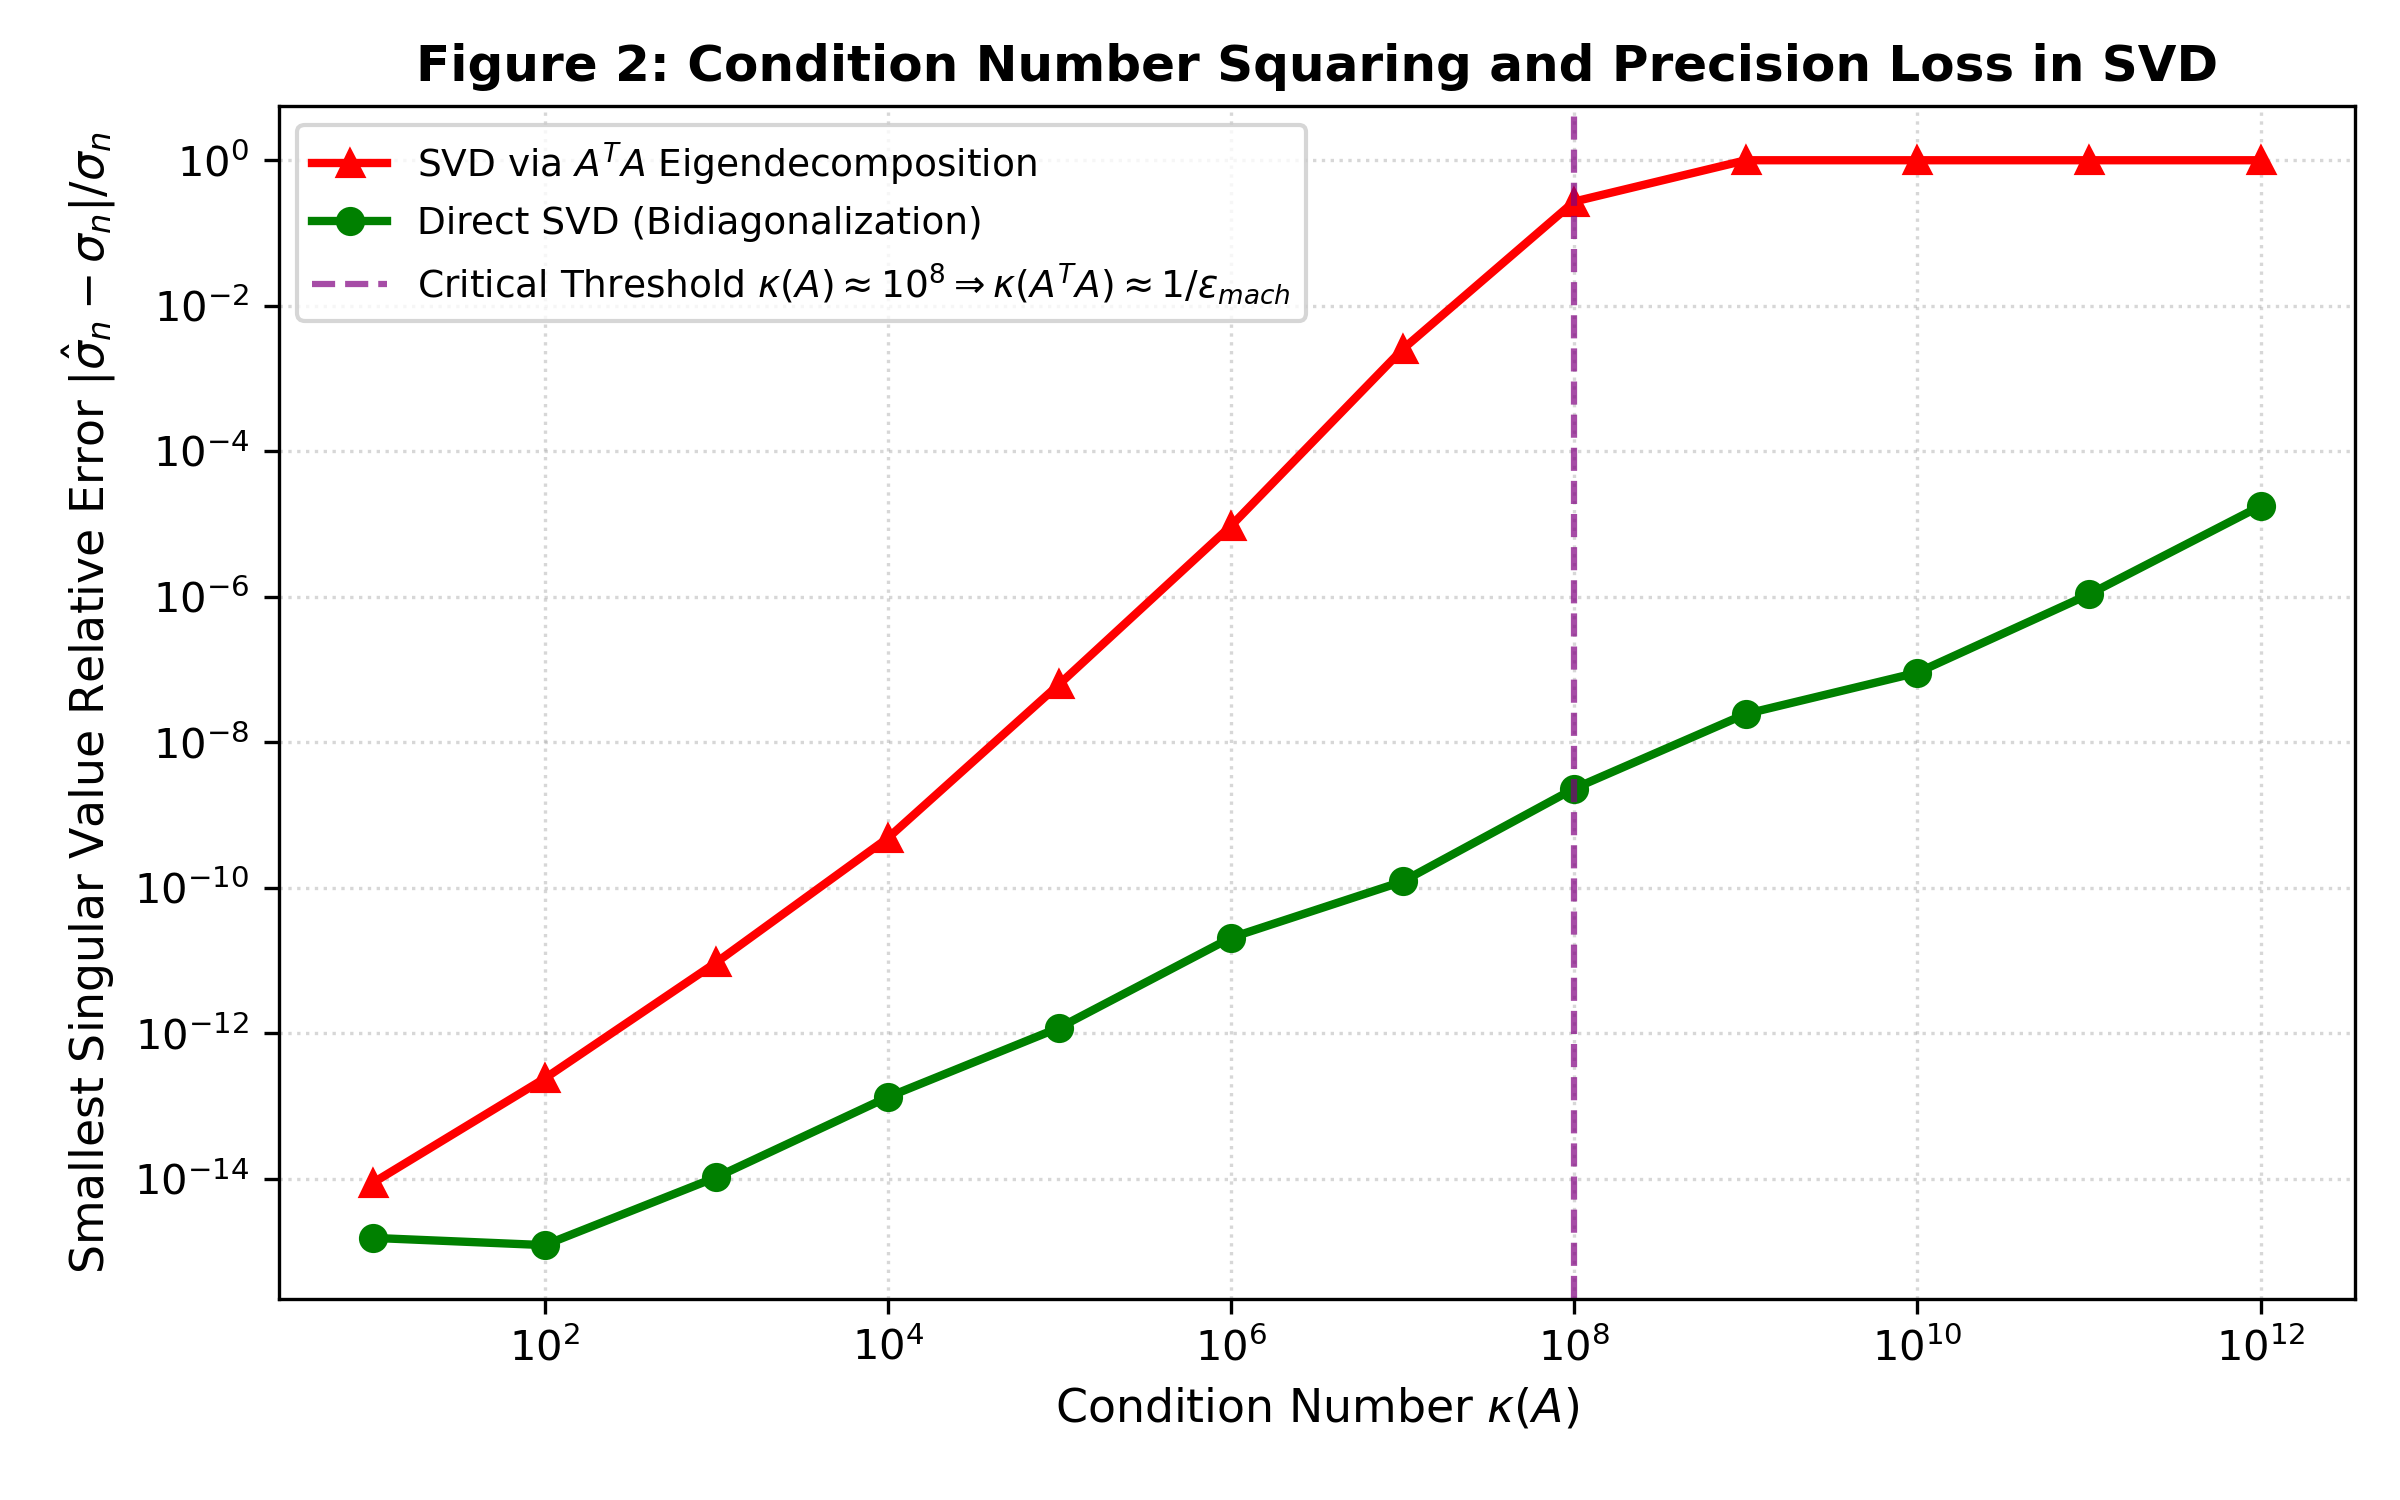
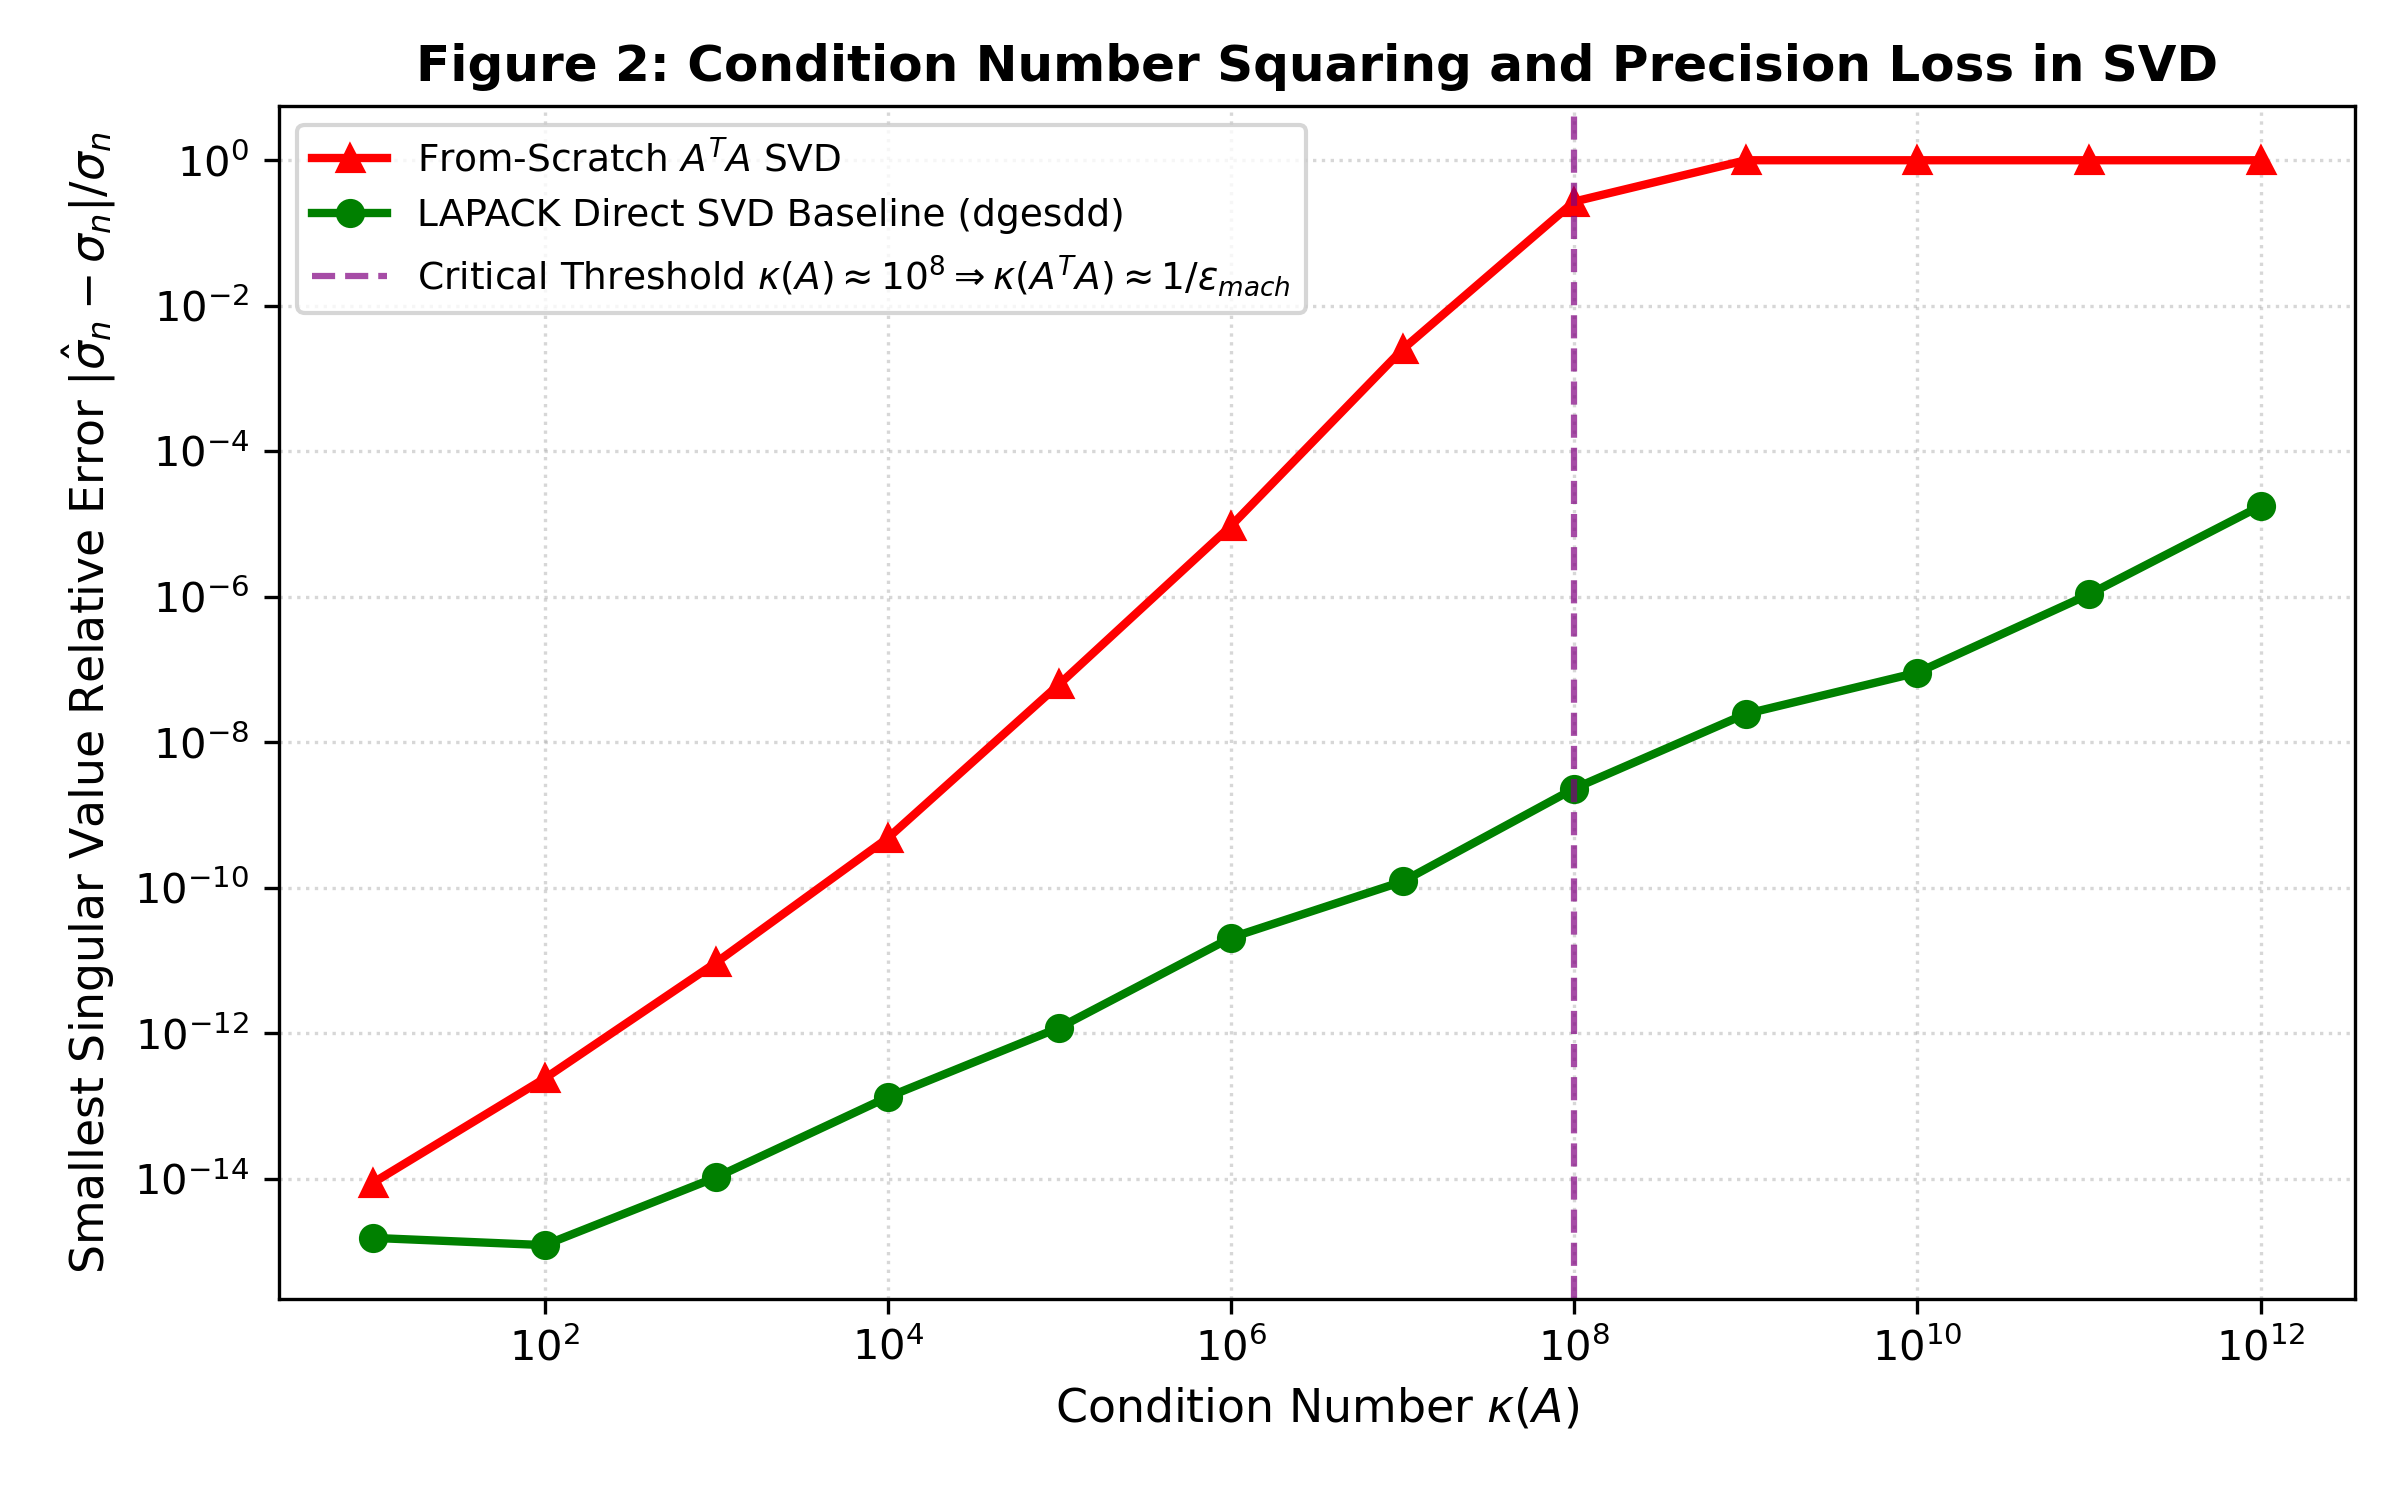
docs(svd): refine attribution to from-scratch A^TA SVD vs production LAPACK baseline

Changed region(s): [[0.125, 0.092, 0.5625, 0.2147]]

diff --git a/capstone/svd_investigation.py b/capstone/svd_investigation.py
@@ -1,6 +1,6 @@
 """
-Foundations Lab  --  Capstone Experiment 2: SVD via Normal Equations vs Direct Factorization
-========================================================================================
+Foundations Lab  --  Capstone Experiment 2: From-Scratch SVD via Normal Equations vs LAPACK Baseline
+====================================================================================================
 
 Research Question:
   Why does computing the SVD via the eigendecomposition of A^T A fail for
@@ -19,14 +19,16 @@ Mathematical Mechanism:
        In IEEE 754 float64 arithmetic, machine epsilon eps_mach ~= 2.22e-16.
        When kappa(A) >= 10^8, kappa(A^T A) >= 10^16 ~= 1 / eps_mach.
        Any singular value sigma_i < sqrt(eps_mach) * sigma_1 ~= 1.49e-8 * sigma_1
-       is completely swamped by roundoff error when A^T A is computed!
+       is completely swamped by roundoff error when A^T A is computed.
     3. Error Amplification in U:
        u_i = (1 / sigma_i) * A * v_i divides by sigma_i. When sigma_i is corrupted,
        the calculated u_i vector loses both normality and orthogonality.
 
-  In contrast, direct SVD algorithms (Golub-Kahan bidiagonalization or Jacobi rotations)
-  work directly on A without ever squaring its condition number, reliably recovering
-  singular values down to eps_mach * sigma_1.
+  In contrast, production direct SVD implementations (such as LAPACK's dgesdd,
+  which uses Golub-Kahan bidiagonalization with divide-and-conquer) work directly
+  on A without ever squaring its condition number, reliably recovering singular
+  values down to eps_mach * sigma_1. In our benchmark, we contrast our from-scratch
+  A^TA implementation against this trusted LAPACK baseline.
 """
 
 from typing import Dict, List, Tuple
@@ -39,7 +41,7 @@ def svd_via_ata(A: np.ndarray) -> Tuple[np.ndarray, np.ndarray, np.ndarray]:
     """
     A = A.astype(np.float64)
     m, n = A.shape
-    AtA = A.T @ A  # Here condition number is squared: kappa(AtA) = kappa(A)^2
+    AtA = A.T @ A  # Condition number is squared: kappa(AtA) = kappa(A)^2
 
     # Compute eigenvalues and eigenvectors of symmetric matrix AtA
     eigvals, V = np.linalg.eigh(AtA)
@@ -69,7 +71,8 @@ def svd_via_ata(A: np.ndarray) -> Tuple[np.ndarray, np.ndarray, np.ndarray]:
 
 def run_svd_condition_experiment() -> Dict[str, List]:
     """
-    Evaluates SVD via A^T A against direct SVD across condition numbers from 10^1 to 10^12.
+    Evaluates from-scratch SVD via A^T A against the production LAPACK SVD baseline (dgesdd)
+    across condition numbers from 10^1 to 10^12.
     """
     cond_numbers = [10**p for p in range(1, 13)]
     results: Dict[str, List] = {
@@ -97,14 +100,14 @@ def run_svd_condition_experiment() -> Dict[str, List]:
         np.fill_diagonal(Sigma, s_true)
         A = U_true @ Sigma @ V_true.T
 
-        # Method 1: SVD via A^T A
+        # Method 1: From-scratch SVD via A^T A
         U_ata, s_ata, Vt_ata = svd_via_ata(A)
         A_recon_ata = U_ata @ np.diag(s_ata) @ Vt_ata
         ata_recon_err = np.linalg.norm(A - A_recon_ata, 2) / np.linalg.norm(A, 2)
         ata_u_ortho = np.linalg.norm(U_ata.T @ U_ata - np.eye(n), 2)
         ata_sv_err = abs(s_ata[-1] - s_true[-1]) / s_true[-1]
 
-        # Method 2: Direct SVD (LAPACK dgesdd)
+        # Method 2: Trusted production LAPACK SVD baseline (dgesdd)
         U_dir, s_dir, Vt_dir = np.linalg.svd(A, full_matrices=False)
         A_recon_dir = U_dir @ np.diag(s_dir) @ Vt_dir
         dir_recon_err = np.linalg.norm(A - A_recon_dir, 2) / np.linalg.norm(A, 2)
@@ -125,13 +128,13 @@ def run_svd_condition_experiment() -> Dict[str, List]:
 
 
 if __name__ == "__main__":
-    print("=" * 78)
-    print("EXPERIMENT 2: SVD via A^T A Normal Equations vs Direct Bidiagonalization SVD")
-    print("=" * 78)
+    print("=" * 82)
+    print("EXPERIMENT 2: From-Scratch SVD via A^T A Normal Equations vs LAPACK SVD Baseline")
+    print("=" * 82)
     res = run_svd_condition_experiment()
 
-    print(f"{'kappa(A)':>10} | {'True sigma_min':>15} | {'A^TA sigma_min':>15} | {'A^TA Rel Err':>13} | {'Direct Rel Err':>14}")
-    print("-" * 78)
+    print(f"{'kappa(A)':>10} | {'True sigma_min':>15} | {'A^TA sigma_min':>15} | {'A^TA Rel Err':>13} | {'LAPACK Rel Err':>14}")
+    print("-" * 82)
     for i in range(len(res["cond_numbers"])):
         c = res["cond_numbers"][i]
         s_true = res["true_smallest_sv"][i]
@@ -140,8 +143,7 @@ if __name__ == "__main__":
         err_dir = res["direct_sv_rel_error"][i]
         print(f"{c:10.1e} | {s_true:15.6e} | {s_ata:15.6e} | {err_ata:13.4e} | {err_dir:14.4e}")
 
-    print("\n" + "=" * 78)
+    print("\n" + "=" * 82)
     print("Finding: Beyond kappa(A) = 10^8, A^TA squares condition number past 1/eps_mach,")
     print("completely wiping out the smallest singular values.")
-    print("=" * 78)
-
+    print("=" * 82)
